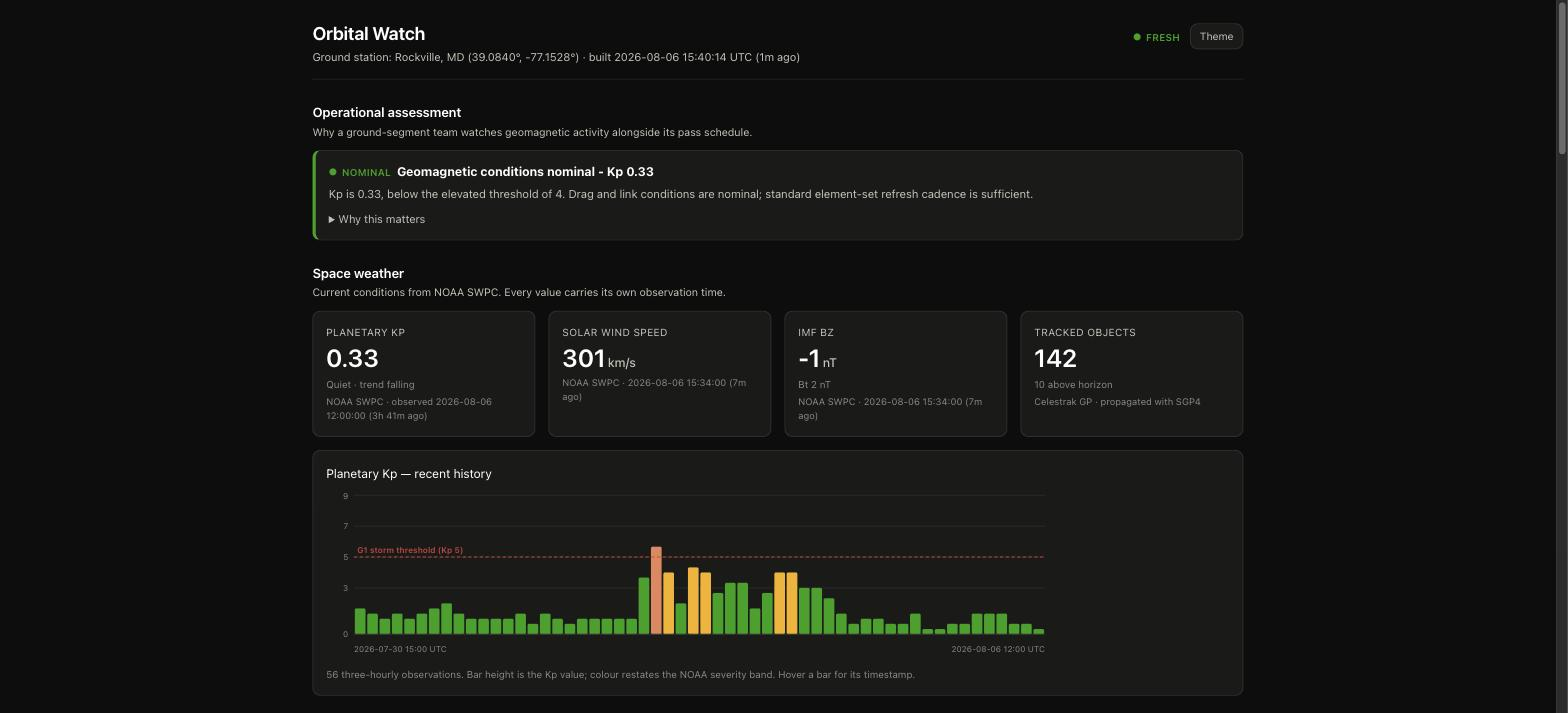
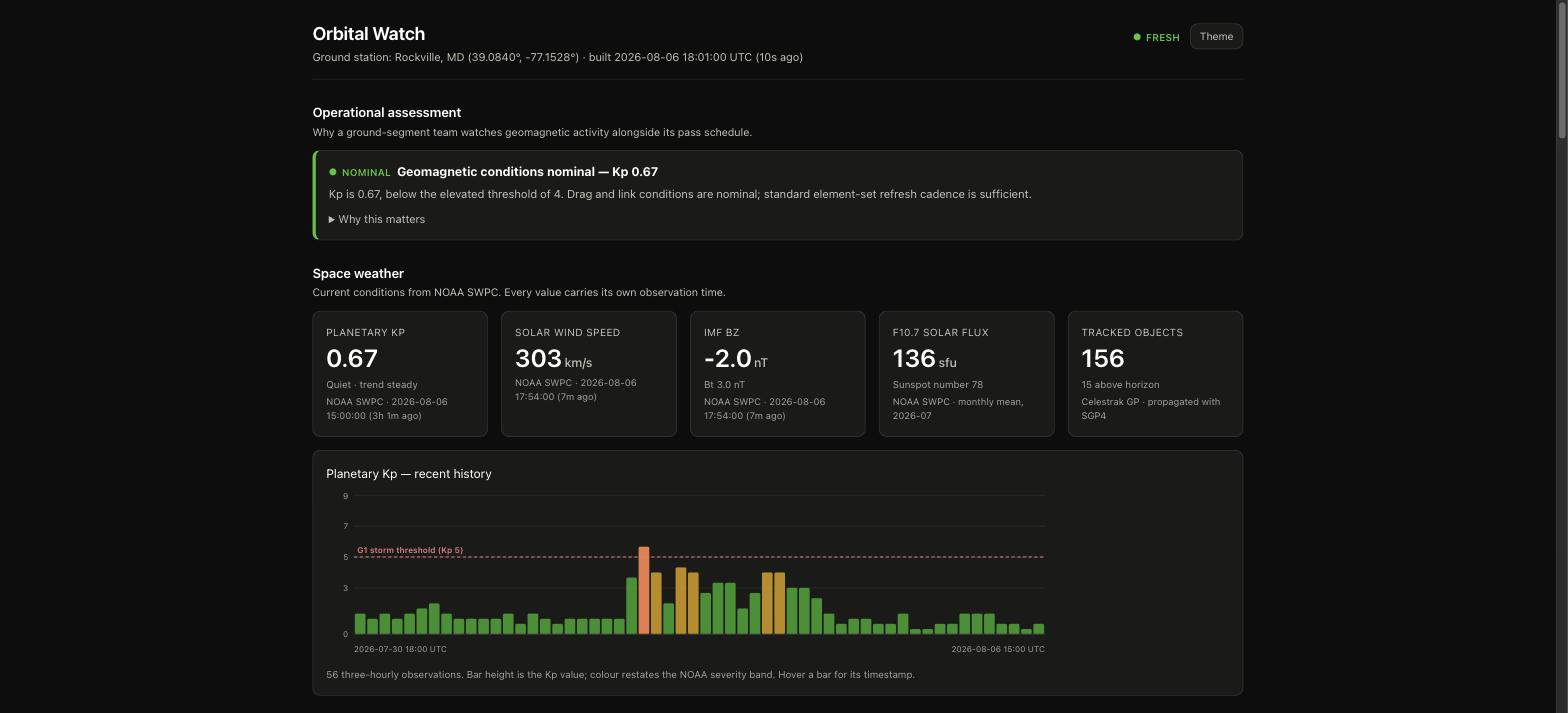
Refresh screenshots and add the health panel to the README
The committed image predated the F10.7 tile and the accessible palette, so it
no longer showed what the site looks like.

Adds a second image of the system health panel. The README calls that panel
the part worth reading closely, but the only picture stopped above it — and
most people look at the pictures.

diff --git a/README.md b/README.md
@@ -7,6 +7,12 @@ station and correlates those passes with live space-weather conditions.
 
 ![The Orbital Watch dashboard: operational assessment banner, space weather tiles, and Kp history chart](docs/dashboard.jpg)
 
+The system health panel, which is the part worth looking at closely — every
+source reports its state, its last success, the thresholds that define that
+state, and how long the fetch took:
+
+![The system health panel: per-source state, last success time, freshness thresholds and fetch duration for all seven upstream sources](docs/health-panel.jpg)
+
 ---
 
 ## Why it exists
